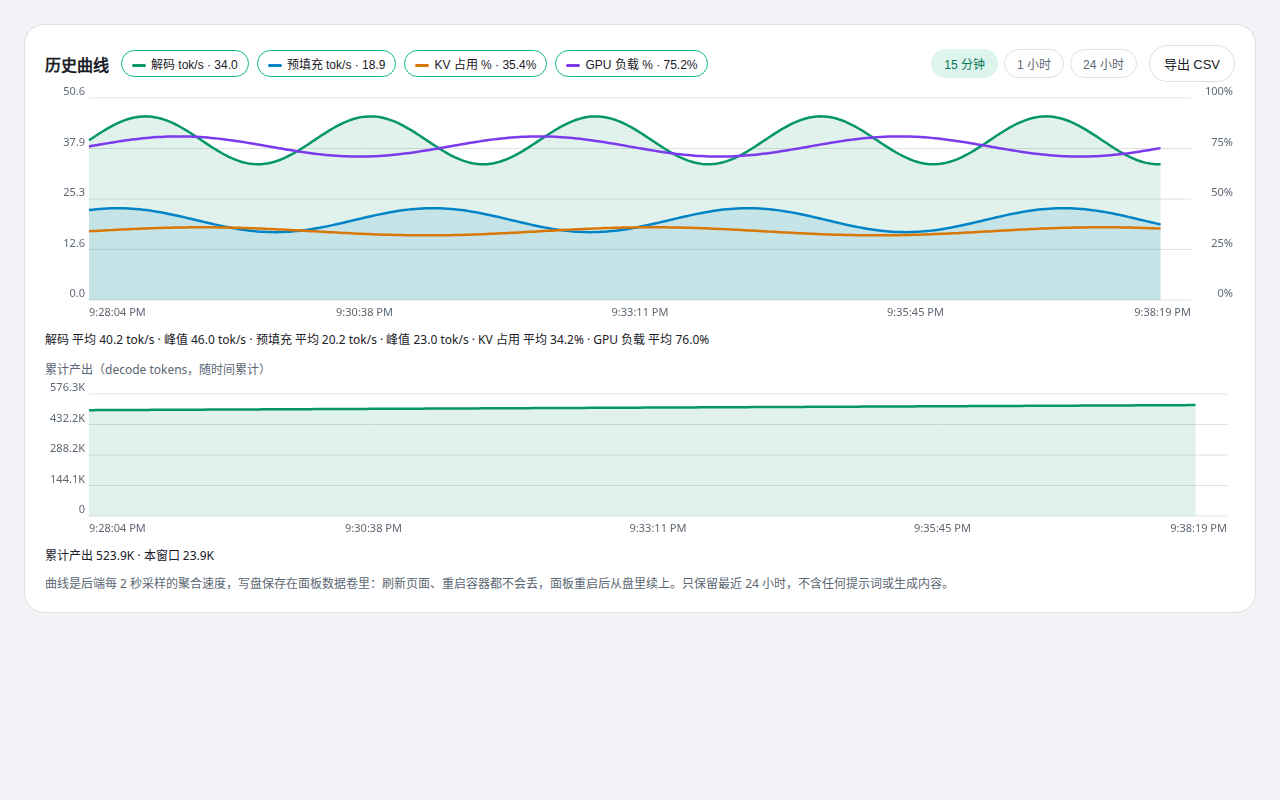
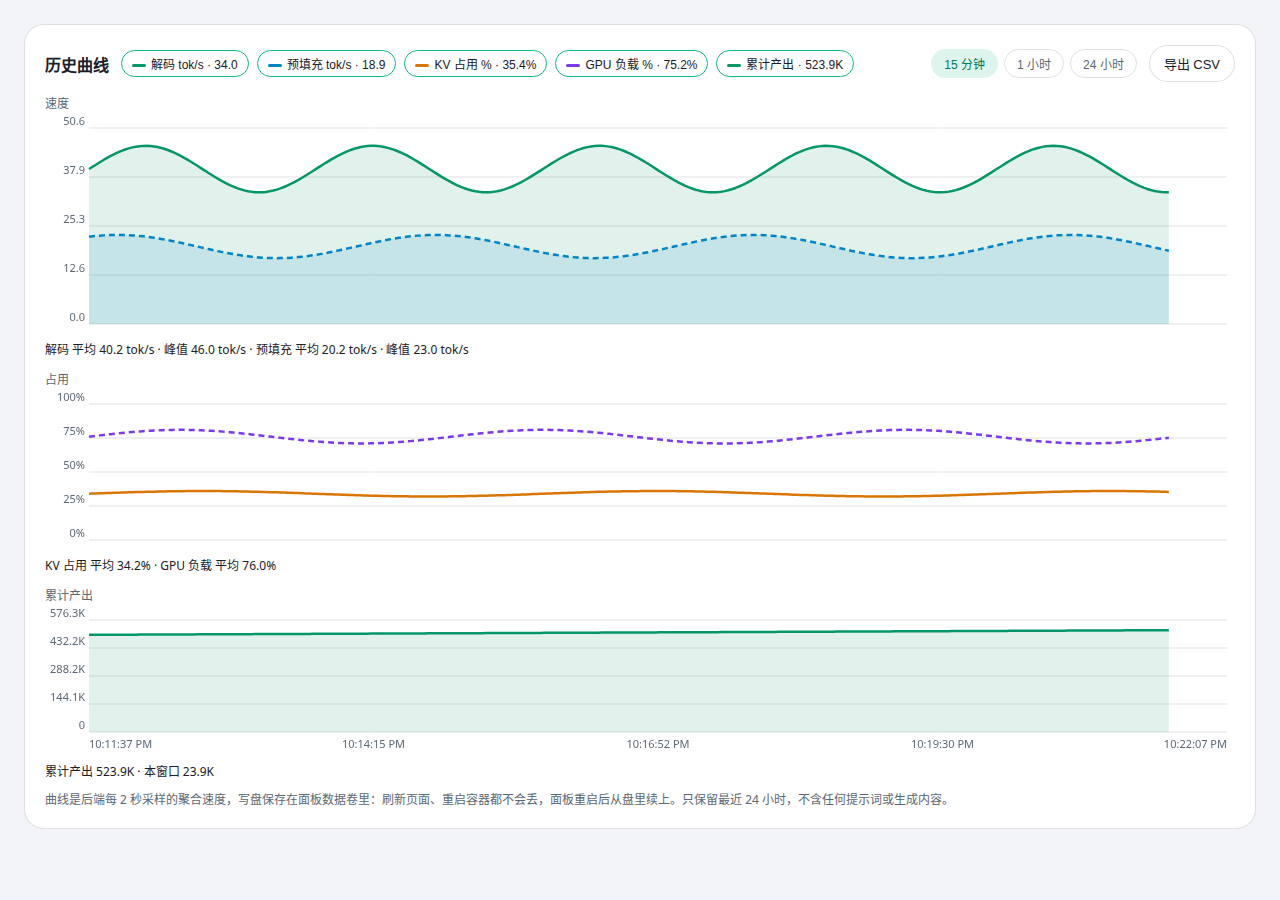
Docs: v0.1.7 README updates (zh+en) + screenshots (three-panel history, output card, disk-hide setting)

diff --git a/README.en.md b/README.en.md
@@ -17,7 +17,7 @@ The images below are the real panel UI (light theme, Chinese UI). The data is si
     <td align="center"><img src="docs/screenshots/settings.png" width="400"><br>Settings dialog</td>
   </tr>
   <tr>
-    <td colspan="2" align="center"><img src="docs/screenshots/history.png" width="800"><br>History, multiple dimensions + cumulative output (15 minutes by default)</td>
+    <td colspan="2" align="center"><img src="docs/screenshots/history.png" width="800"><br>History, three panels: speed / usage / cumulative output (15 minutes by default)</td>
   </tr>
 </table>
 
@@ -44,16 +44,16 @@ python3 app.py
 | Section | Content |
 | --- | --- |
 | Model state | Five states: idle / reading / generating / queued / error (NInfer has no single state field; mapped from running / waiting / prefilling / decode_ready). |
-| Metric cards | Decode, prefill, GPU load, VRAM, temperature, power, PCIe, CPU, disk read. Sparklines resume from backend history after refresh (PCIe has link info only, so its sparkline stays dashed; it can be hidden from Settings). |
-| Current requests | Top rows are in-flight slots: slot id, prompt length, cached portion (length · share of prompt), context window, share of window, "In flight". Grey rows below are requests observed ending in the past hour ("Ended HH:MM"); lengths only; slot ids are reused. Queued requests are a count only. The table body is capped at 320px and scrolls internally; the totals line stays outside the scroll area and always visible. |
+| Metric cards | Decode, prefill, GPU load, VRAM, temperature, power, PCIe, CPU, disk read, output tokens (cumulative decode count since startup). Sparklines resume from backend history after refresh (PCIe has link info only, so its sparkline stays dashed; PCIe and disk read can be hidden from Settings). |
+| Current requests | Top rows are in-flight slots: slot id, prompt length, cached portion (length · share of prompt), context window, share of window, "In flight". Grey rows below are requests observed ending in the past hour ("Ended HH:MM"); lengths only; slot ids are reused. Queued requests are a count only. Each row adds average decode and duration: average decode is the panel-wide average decode rate over the request's processing window (not the request's own speed — NInfer reports no per-request output); duration is the observed first-to-last span, or elapsed time while in flight. The table body is capped at 320px and scrolls internally; the totals line stays outside the scroll area and always visible. |
 | Context usage | Longest in-flight prompt / window limit (`capacity.max_context` from `/v1/load`), plus KV cache, system memory, and GPU temperature rows. |
 | Conversation cache | Retained slot count and host KV, plus cumulative reused tokens. |
-| History | Four curves — decode, prefill, KV usage, GPU load — with multi-select legend toggles (stored in the browser) showing latest values. Default range 15 minutes; switches to 1 hour / 24 hours (plus 7 days when retention reaches it); hover shows values at that moment; below are window average/peak stats and Export CSV. Sampled every 2 seconds and persisted to disk, so it survives refreshes, restarts, and recreates (with the data volume mounted); only the last 24 hours are kept (configurable). When the data span is shorter than the window, the axis fits the data so the curve always fills the chart, and time ticks adapt to the span. Below it, a cumulative-output curve (cumulative decode tokens over time, breaking — not cliffing — when an NInfer restart resets the counter) with a “Cumulative X · This window Y” line; KV and GPU percent dimensions draw lines only, no fill; Export CSV gains a cumulative decode count column. |
+| History | Three stacked panels sharing one time axis: speed (decode, prefill tok/s), usage (KV, GPU %, lines only, no fill), and cumulative output (cumulative decode tokens, breaking — not cliffing — when an NInfer restart resets the counter). Five legend dimensions toggle (stored in the browser) with latest values; turning off every dimension of a panel hides that panel; each panel has its own window stats (speed: average/peak; usage: average; cumulative output: “Cumulative X · This window Y”); the second line in a panel is dashed, so series are never distinguished by color alone. Default range 15 minutes; switches to 1 hour / 24 hours (plus 7 days when retention reaches it); hover shows values at that moment; Export CSV columns follow the legend selection (the cumulative column appears only when that dimension is on). Sampled every 2 seconds and persisted to disk, so it survives refreshes, restarts, and recreates (with the data volume mounted); only the last 24 hours are kept (configurable). When the data span is shorter than the window, the axis fits the data so the curve always fills the chart, and time ticks adapt to the span. |
 | State events | State changes seen by backend polling (time, old → new, reason), capped at 200 entries in the data volume; the curve marks each moment with a vertical line (offline red, recovery green, other grey). |
 
 ## Settings
 
-The top-right Settings dialog edits the NInfer address; saving takes effect immediately — no compose edit, no restart. Precedence: **UI-saved > `NINFER_BASE_URL` > image default**. It also offers Test connection (`/health` only, no API key, never auto-saves), a refresh interval (1–10 s, display only), a manual Check for updates (bypasses the 1-hour cache), "Notify in browser when offline" (off by default), and "Hide PCIe card" (off by default, this browser's view only). The saved value lives in `settings.json`.
+The top-right Settings dialog edits the NInfer address; saving takes effect immediately — no compose edit, no restart. Precedence: **UI-saved > `NINFER_BASE_URL` > image default**. It also offers Test connection (`/health` only, no API key, never auto-saves), a refresh interval (1–10 s, display only), a manual Check for updates (bypasses the 1-hour cache), "Notify in browser when offline" (off by default), and "Hide PCIe card" and "Hide disk read card" (both off by default, this browser's view only). The saved value lives in `settings.json`.
 
 Top-right buttons switch dark / light and 中文 / English, stored in browser `localStorage`; before a choice, the theme follows the system and the language follows the browser. All UI strings come from one dictionary in `web/i18n.js`; `web/index.html` contains none.
 

diff --git a/README.md b/README.md
@@ -17,7 +17,7 @@
     <td align="center"><img src="docs/screenshots/settings.png" width="400"><br>设置弹窗</td>
   </tr>
   <tr>
-    <td colspan="2" align="center"><img src="docs/screenshots/history.png" width="800"><br>历史曲线多维度 + 累计产出（默认 15 分钟）</td>
+    <td colspan="2" align="center"><img src="docs/screenshots/history.png" width="800"><br>历史曲线三面板：速度 / 占用 / 累计产出（默认 15 分钟）</td>
   </tr>
 </table>
 
@@ -44,16 +44,16 @@ python3 app.py
 | 区域 | 内容 |
 | --- | --- |
 | 模型状态 | 五态：空闲 / 正在读取 / 正在生成 / 排队中 / 错误（NInfer 无单一状态字段，按 running / waiting / prefilling / decode_ready 映射）。 |
-| 指标卡 | 解码、预填充、GPU 负载、显存、温度、功率、PCIe、CPU、磁盘读取；迷你曲线刷新后从后端历史续上（PCIe 只有链路，曲线恒为虚线；可在设置里隐藏）。 |
-| 当前请求 | 上半是处理中的 slot：slot 号、prompt 长度、缓存复用（长度 · 占 prompt 比例）、窗口、占窗口比、“进行中”。下半灰色行是过去 1 小时观测到的已结束请求（“已结束 HH:MM”），只含长度；slot 号会复用。排队只有个数。表体最高 320px，超出时内部滚动，合计行在滚动区外始终可见。 |
+| 指标卡 | 解码、预填充、GPU 负载、显存、温度、功率、PCIe、CPU、磁盘读取、输出 Tokens（自启动累计 decode 计数）；迷你曲线刷新后从后端历史续上（PCIe 只有链路，曲线恒为虚线；PCIe、磁盘读取可在设置里隐藏）。 |
+| 当前请求 | 上半是处理中的 slot：slot 号、prompt 长度、缓存复用（长度 · 占 prompt 比例）、窗口、占窗口比、“进行中”。下半灰色行是过去 1 小时观测到的已结束请求（“已结束 HH:MM”），只含长度；slot 号会复用。排队只有个数。每行新增平均 decode 与处理时间：平均 decode 是该请求处理时段内面板整体的平均解码速率（不是单请求自己的速度，NInfer 不报单请求产出）；处理时间是观测到的首末时间差，进行中为已耗时。表体最高 320px，超出时内部滚动，合计行在滚动区外始终可见。 |
 | 上下文占用 | 最长处理中 prompt / 窗口上限（`/v1/load` 的 `capacity.max_context`），另有 KV 缓存、系统内存、GPU 温度三条。 |
 | 对话缓存 | 保留的 slot 数与宿主 KV，以及累计复用 token 数。 |
-| 历史曲线 | 解码、预填充、KV、GPU 四条曲线，图例多选（记浏览器里）带最新值；默认 15 分钟，可切 1 小时 / 24 小时（保留够 7 天多 7 天档）；悬停看数值，下方有窗口平均/峰值，右上角导出 CSV。后端每 2 秒采样写盘，刷新、重启、重建（挂数据卷）都不丢，只保留最近 24 小时（可配）；数据不足窗口时横轴贴合数据，刻度按跨度自适应。下方有累计产出曲线（decode 累计 tokens 随时间变化，NInfer 重启致计数归零时断开不断崖）与“累计 X · 本窗口 Y”统计；KV、GPU 百分比维度只画线不填充；导出 CSV 多一列累计 decode 计数。 |
+| 历史曲线 | 三个面板共用时间轴：速度（解码、预填充 tok/s）、占用（KV、GPU %，只画线不填充）、累计产出（decode 累计 tokens，NInfer 重启致计数归零时断开不断崖）；图例 5 个维度多选（记浏览器里）带最新值，关掉某面板的全部维度则该面板隐藏；每面板下有自己的窗口统计（速度：平均/峰值；占用：平均；累计产出：“累计 X · 本窗口 Y”）；面板内第二条线画虚线，不只靠颜色区分。默认 15 分钟，可切 1 小时 / 24 小时（保留够 7 天多 7 天档）；悬停看数值，右上角导出 CSV（列跟随图例选择，含累计产出时才有累计列）。后端每 2 秒采样写盘，刷新、重启、重建（挂数据卷）都不丢，只保留最近 24 小时（可配）；数据不足窗口时横轴贴合数据，刻度按跨度自适应。 |
 | 状态事件 | 状态变化日志（时间、旧→新、原因），最多 200 条，存数据卷；曲线上对应时刻有竖线（离线红、恢复绿、其他灰）。 |
 
 ## 设置
 
-右上角“设置”弹窗改 NInfer 地址，保存立即生效，不用改 compose、不用重启。优先级：**界面保存 > `NINFER_BASE_URL` > 镜像默认**。弹窗里还能测试连接（只查 `/health`，不发 key、不自动保存）、调刷新间隔（1–10 秒，只影响页面）、手动检查更新（绕过 1 小时缓存）、开离线通知（默认关）、隐藏 PCIe 卡片（默认不勾，只影响本浏览器视图）。保存的值写数据卷 `settings.json`。
+右上角“设置”弹窗改 NInfer 地址，保存立即生效，不用改 compose、不用重启。优先级：**界面保存 > `NINFER_BASE_URL` > 镜像默认**。弹窗里还能测试连接（只查 `/health`，不发 key、不自动保存）、调刷新间隔（1–10 秒，只影响页面）、手动检查更新（绕过 1 小时缓存）、开离线通知（默认关）、隐藏 PCIe 卡片、隐藏磁盘读取卡片（默认都不勾，只影响本浏览器视图）。保存的值写数据卷 `settings.json`。
 
 右上角按钮切深浅色、切中英，记浏览器 `localStorage`；没选过时主题跟随系统、语言按浏览器判断。文案全在 `web/i18n.js`，`index.html` 里不放文案。
 
